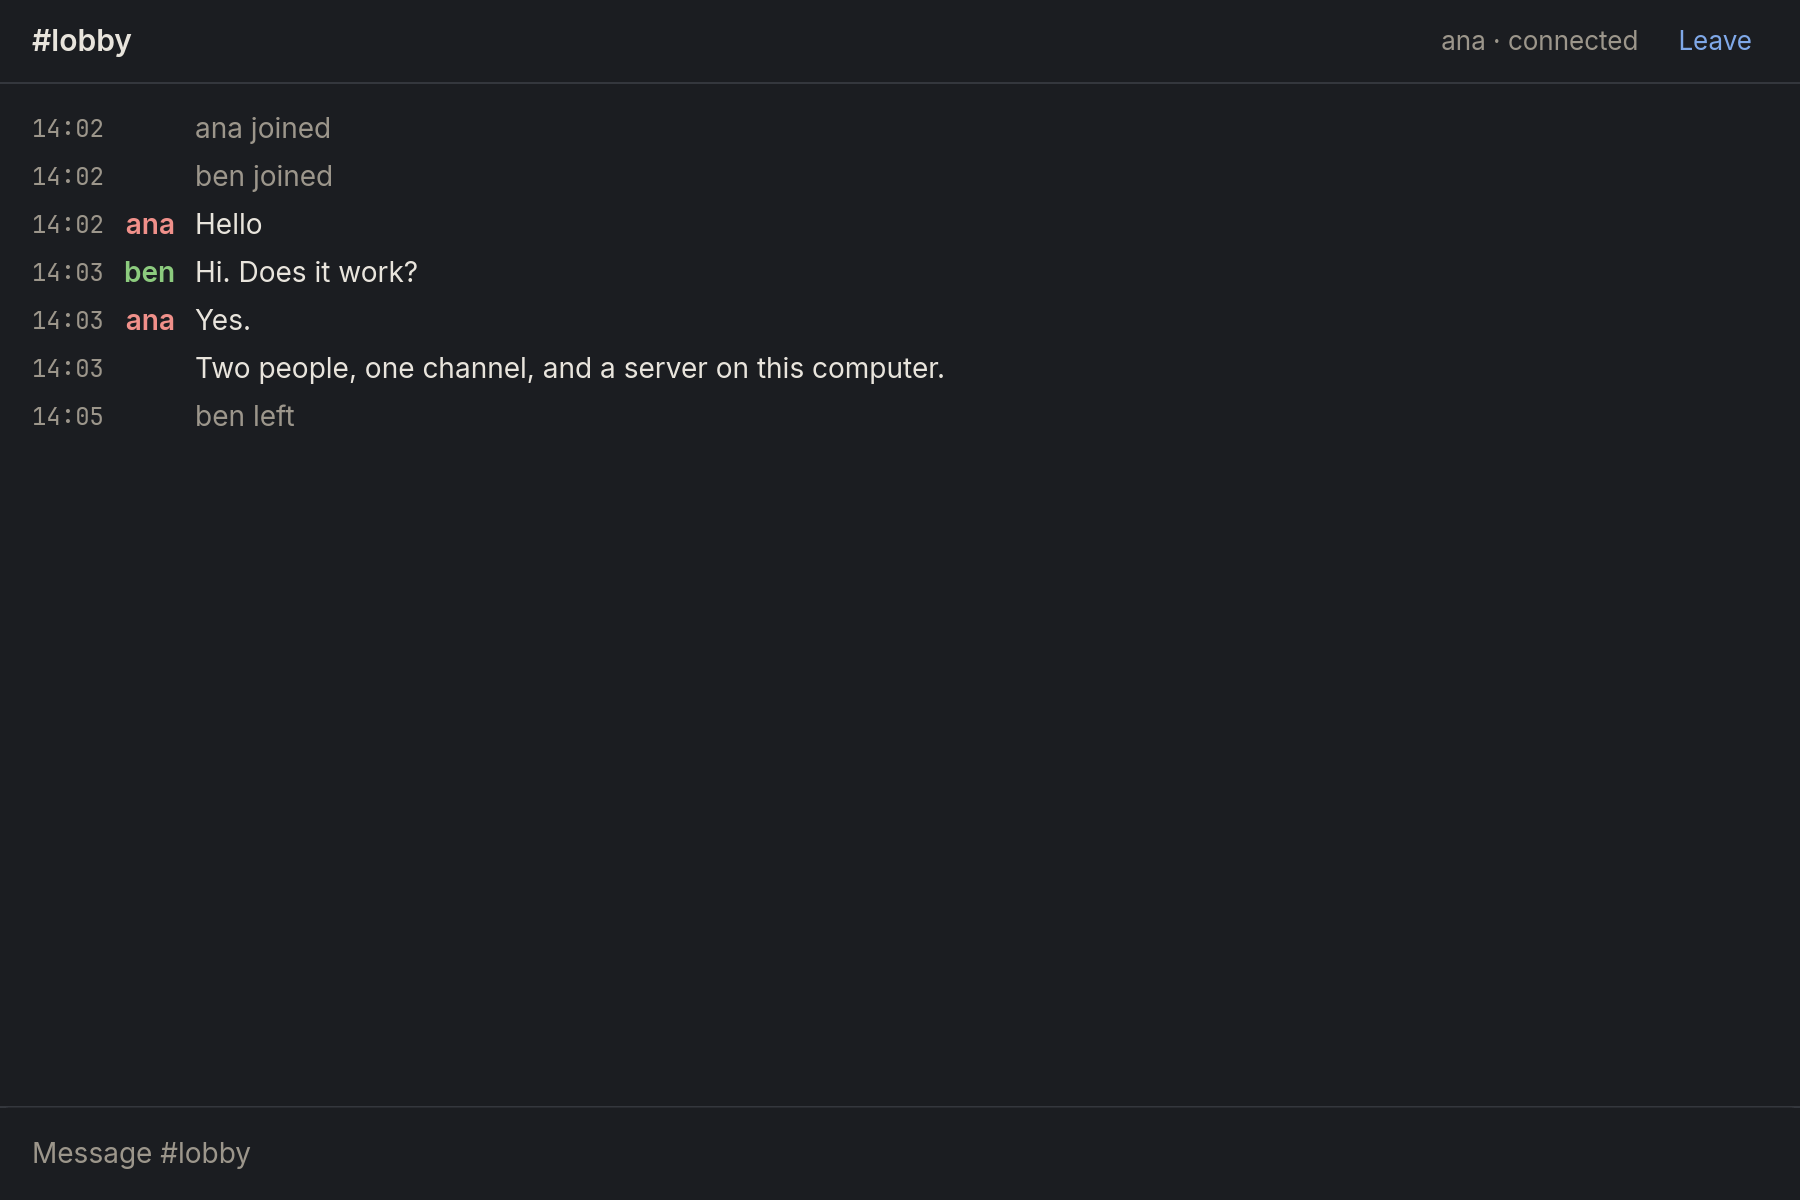
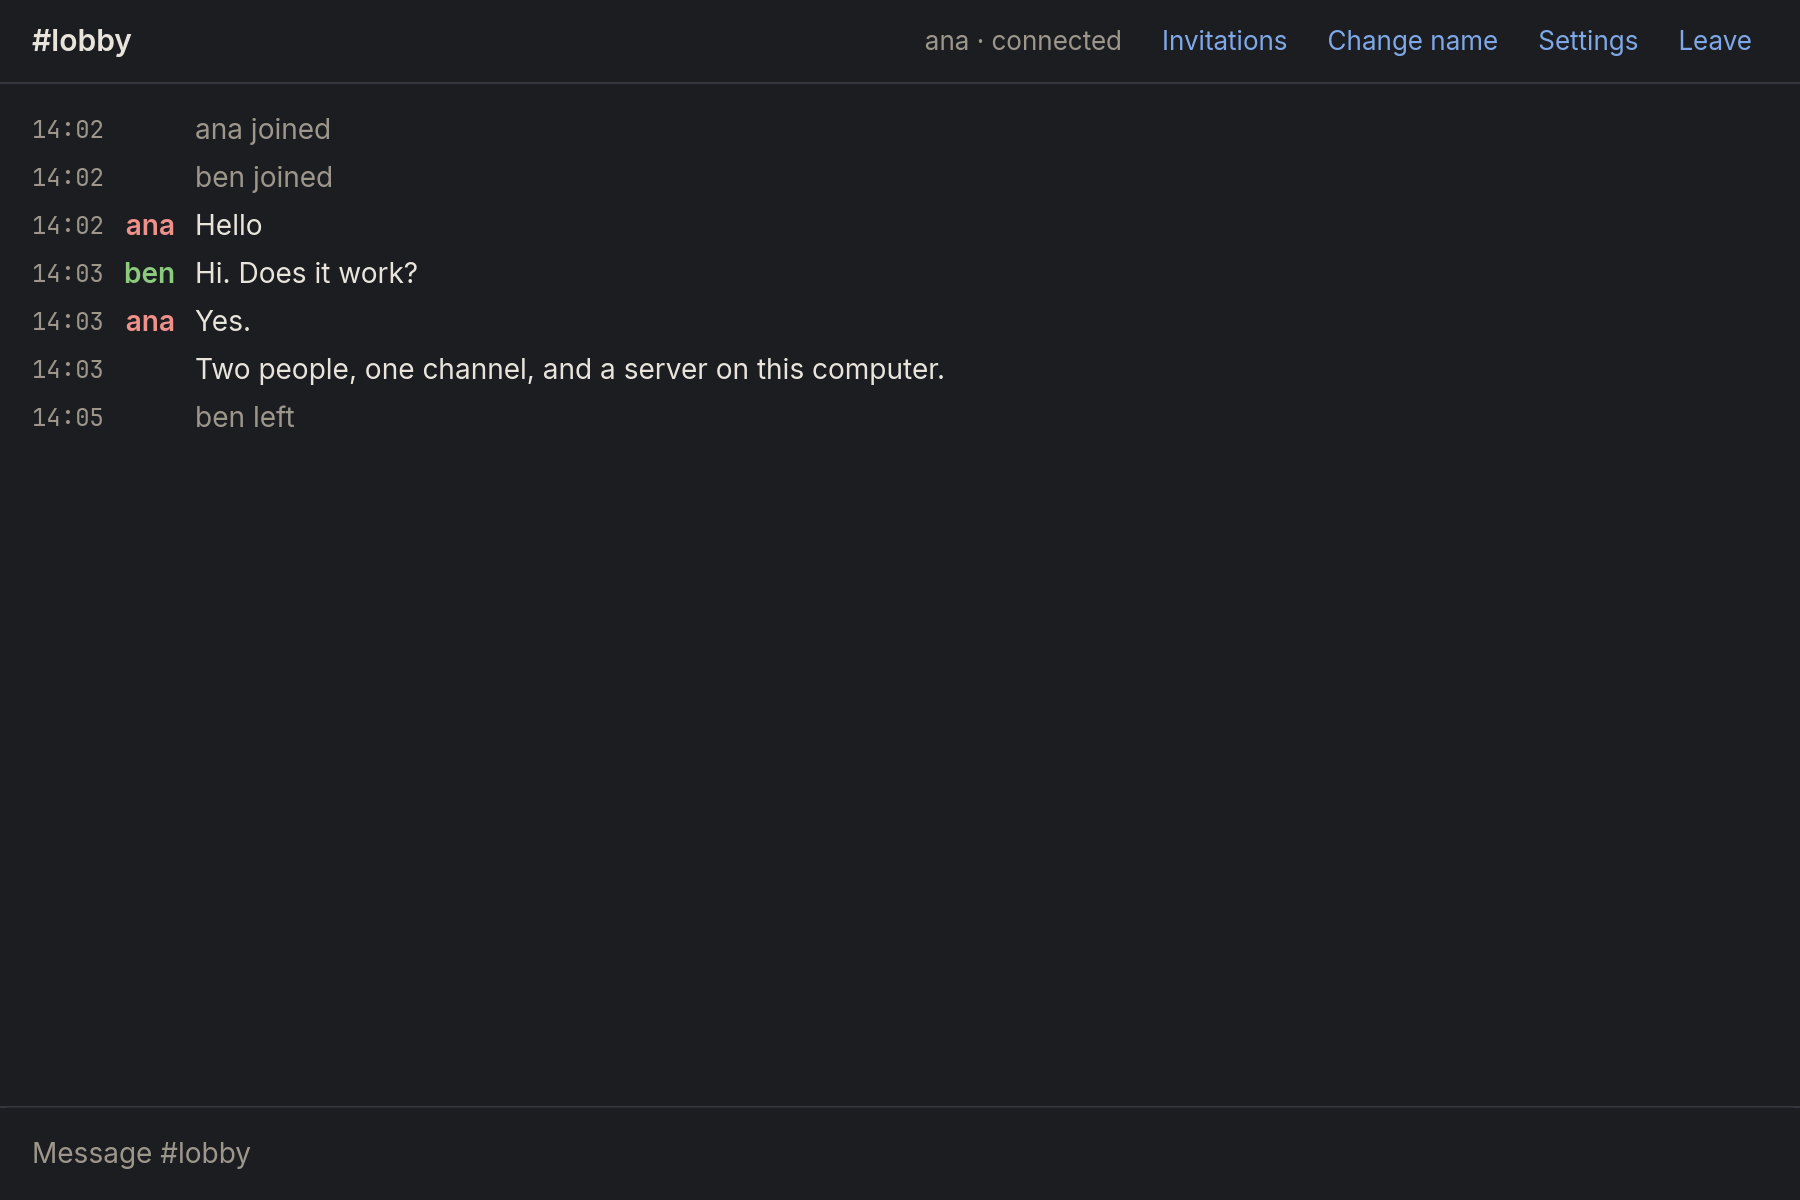
Record the performance of version 0.2 and update the documents

diff --git a/site/es/index.html b/site/es/index.html
@@ -163,6 +163,10 @@
 <p>Qué partes del código tienen una prueba formal.</p>
 </li>
 <li>
+<h3><a href="{{root}}performance.html" hreflang="en">Rendimiento</a></h3>
+<p>Los presupuestos de rendimiento y los valores medidos.</p>
+</li>
+<li>
 <h3><a href="{{root}}changelog.html" hreflang="en">Registro de cambios</a></h3>
 <p>Los cambios de cada versión.</p>
 </li>

diff --git a/site/document.html b/site/document.html
@@ -22,6 +22,7 @@
 <li><a href="{{root}}architecture.html">Architecture</a></li>
 <li><a href="{{root}}threat-model.html">Threat model</a></li>
 <li><a href="{{root}}verification.html">Verification</a></li>
+<li><a href="{{root}}performance.html">Performance</a></li>
 <li><a href="{{root}}changelog.html">Changelog</a></li>
 </ul>
 </nav>

diff --git a/site/index.html b/site/index.html
@@ -162,6 +162,10 @@
 <p>Which parts of the code have a formal proof.</p>
 </li>
 <li>
+<h3><a href="{{root}}performance.html">Performance</a></h3>
+<p>The performance budgets and the measured values.</p>
+</li>
+<li>
 <h3><a href="{{root}}changelog.html">Changelog</a></h3>
 <p>The changes in each version.</p>
 </li>

diff --git a/tools/site/src/site.rs b/tools/site/src/site.rs
@@ -12,13 +12,14 @@ const TEMPLATE: &str = "document.html";
 const MARK: &str = "mark.svg";
 const DECISIONS: &str = "docs/decisions";
 const GUIDE: &str = "README.md";
-const DOCUMENTS: [(&str, &str); 7] = [
+const DOCUMENTS: [(&str, &str); 8] = [
     ("docs/philosophy.md", "philosophy.html"),
     ("docs/decisions/README.md", "decisions/index.html"),
     ("docs/protocol/README.md", "protocol/index.html"),
     ("docs/architecture.md", "architecture.html"),
     ("docs/threat-model.md", "threat-model.html"),
     ("docs/verification.md", "verification.html"),
+    ("docs/performance.md", "performance.html"),
     ("CHANGELOG.md", "changelog.html"),
 ];
 const COPIES: [(&str, &str, &str); 2] = [
@@ -320,6 +321,7 @@ mod tests {
         root.put("docs/architecture.md", "# Architecture\n");
         root.put("docs/threat-model.md", "# Threat model\n");
         root.put("docs/verification.md", "# Verification\n");
+        root.put("docs/performance.md", "# Performance\n");
         root.put("CHANGELOG.md", "# Changelog\n\nRecord D-001.\n");
         root
     }
@@ -382,6 +384,7 @@ mod tests {
             "architecture.html",
             "threat-model.html",
             "verification.html",
+            "performance.html",
             "changelog.html",
         ] {
             assert!(out.get(page).starts_with("<title>"), "{page}");

diff --git a/tools/site/tests/repository.rs b/tools/site/tests/repository.rs
@@ -142,6 +142,7 @@ fn makes_each_page_and_each_file_of_the_website() {
         "architecture.html".to_owned(),
         "threat-model.html".to_owned(),
         "verification.html".to_owned(),
+        "performance.html".to_owned(),
         "changelog.html".to_owned(),
         "protocol/index.html".to_owned(),
         "decisions/index.html".to_owned(),

diff --git a/README.md b/README.md
@@ -6,24 +6,24 @@ Post is between IRC and Telegram. It keeps the simplicity of IRC, and it adds th
 
 The website of the project is [collide2954.github.io/post](https://collide2954.github.io/post/).
 
-![The chat screen of Post 0.1 in light mode](docs/images/chat-light.png)
+![The chat screen of Post 0.2 in light mode](docs/images/chat-light.png)
 
 ## State of the project
 
 Post is at the start of its development. Do not use it for real conversations.
 
-Version 0.1 is the first slice. It shows that all the layers work together:
+Version 0.2 adds identity and the connection across a network:
 
-- Two or more people exchange text in one channel, `#lobby`.
-- The server and the applications run on one computer.
-- The application has English and Latin American Spanish text.
-- The application has light mode and dark mode.
+- Each user has an account on each server. The account is a key, and it has no password. The application calculates the key from a secret seed in a profile.
+- A person joins a server with an invite link. The first person uses the owner link and becomes the server owner.
+- A connection across a network uses TLS 1.3. A server can make its own certificate.
+- A user can change the handle.
+- The application has profiles, a Settings page, a text size from 80% to 200%, and a protocol console for developers.
+- The application has English and Latin American Spanish text, light mode, and dark mode.
 
-Version 0.1 has no accounts, no encryption, and no stored history. The connection does not go across a network. The [roadmap](docs/decisions/engineering.md) gives the sequence of the next versions (record D-100).
+Version 0.2 has one channel, `#lobby`, and no stored history. The server can read each message. The [roadmap](docs/decisions/engineering.md) gives the sequence of the next versions (record D-100).
 
-The main branch contains the work on version 0.2. The application now signs in with an account, and a connection across a network uses TLS 1.3.
-
-## Try the main branch
+## Try version 0.2
 
 You must have [rustup](https://rustup.rs). It installs the Rust release that the file `rust-toolchain.toml` gives.
 
@@ -50,6 +50,42 @@ The application keeps a secret seed in a file in your user directory. Only your 
 
 The server listens on port 7678. To use a different port, give the number: `cargo run --bin post-server -- --port 9000`. The server keeps its data in the directory `post-server-data`.
 
+### A second user on the same computer
+
+One profile has one account on a server. Thus a second user needs a second profile.
+
+1. In the chat, select **Invitations**, then **New invite link**, then **Copy**.
+2. Select **Back**, then **Leave**, then **Profiles**. Make a profile with the name `second`.
+3. Select **Back**, and open your server again.
+4. In a third terminal, start a second window with the new profile:
+
+   ```
+   cargo run --bin post -- --profile second
+   ```
+
+5. Paste the invite link into the first field. Type a name, and select **Connect**.
+
+### A server for other computers
+
+Make a file with the name `post-server.toml` in the directory where you start the server:
+
+```toml
+# The address that the users type. An address without a port uses port 443.
+address = "chat.example.org"
+
+[tls]
+# "own": the server makes its own certificate.
+# "files": the server uses the two files below.
+# "proxy": a reverse proxy does the TLS work.
+mode = "own"
+# certificate = "certificate.pem"
+# key = "certificate-key.pem"
+```
+
+With the mode `own`, the server prints the fingerprint of its certificate. Give the fingerprint to your users. The application shows the fingerprint at the first connection, and the user compares the two (record D-073).
+
+The command `post-server owner-link` makes a new owner link. Stop the server before you use this command.
+
 ## Documents
 
 | Document | Content |
@@ -60,6 +96,7 @@ The server listens on port 7678. To use a different port, give the number: `carg
 | [Architecture](docs/architecture.md) | The parts of the code |
 | [Threat model](docs/threat-model.md) | What Post protects, and what it does not protect |
 | [Verification](docs/verification.md) | Which parts of the code have a formal proof, and which parts have none |
+| [Performance](docs/performance.md) | The performance budgets and the measured values |
 | [Changelog](CHANGELOG.md) | The changes in each version |
 
 ## Repository layout
@@ -67,6 +104,8 @@ The server listens on port 7678. To use a different port, give the number: `carg
 | Directory | Content |
 |---|---|
 | `crates/post-proto` | Message types, codec, and protocol rules |
+| `crates/post-crypto` | Keys and proofs of accounts and servers |
+| `crates/post-rules` | The proved rules of the server for accounts, handles, and invitations |
 | `crates/post-server` | The server program, `post-server` |
 | `crates/post-client` | The client logic without an interface |
 | `crates/post-app` | The application, `post` |

diff --git a/docs/performance.md b/docs/performance.md
@@ -1,0 +1,73 @@
+# Performance
+
+This document gives the performance budgets of Post and the values that the project measured. Decision record D-170 gives the budgets. The project measures before each minor version.
+
+## The reference computer
+
+The reference computer is a laptop with these parts:
+
+- An Intel Core i5-8365U processor with 4 cores and 8 threads.
+- 24 GB of memory.
+- Built-in Intel UHD Graphics 620.
+- Windows 11.
+
+Other programs were in operation on the computer during the measurements. They used 2% to 11% of the processor.
+
+## Values for version 0.2
+
+The project measured release builds on 2026-11-22.
+
+| Subject | Budget | Measured value | Result |
+|---|---|---|---|
+| Start of the application | The window shows in 300 ms or less after a warm start. | 61 ms | The budget is met. |
+| Memory of the application | The application uses 150 MB or less when idle. | 119 MB | The budget is met. |
+| Processor time of the application | The application uses 1% of one processor core or less when idle. | 0.57% | The budget is met. |
+| Timeline | A frame takes 16 ms or less with 100,000 messages. | No value | This budget starts in version 0.4. |
+| Message delivery | The server sends a message to 1,000 members of a channel in 50 ms or less. | 47 ms to 57 ms | The value is at the limit of the budget. Read the section below. |
+| Server memory | 10,000 idle connections use 1 GB or less. | 107 MB | The budget is met. |
+
+## The application
+
+The script `tools/measure-app.ps1` does the measurement on Windows. It uses a temporary directory for the data, thus it does not change your profiles.
+
+- **Start.** The script starts the application 6 times. For each start, it measures the time until the window exists. The first start is not a warm start. The 5 warm starts took 41 ms to 94 ms, and the median was 61 ms.
+- **Memory.** The script reads the memory of the application after 8 seconds without input. It uses the Windows value `WorkingSet64`.
+- **Processor time.** The window is in front, and the text cursor of the first field is on. The script measures the processor time of 30 seconds without input. It does this 3 times. The values were 0.57%, 1.35%, and 0.47% of one core. The median was 0.57%.
+
+Version 0.1.0 gives the same values for the memory and for the processor time.
+
+A program that the computer starts for the first time after a build can use 2% to 4% of one core for some starts. The value then decreases. Measure only after some starts.
+
+## Message delivery
+
+The test starts the server program and makes 1,000 accounts on the reference computer. Each account has one connection. One member sends a message 30 times. For each message, the test measures the time until all 1,000 connections have the message.
+
+- The first messages after a pause took 23 ms to 29 ms. The processor operates at its burst speed for a short time.
+- Later messages took more time. The median of the 30 messages was 47 ms, 53 ms, and 57 ms in three runs. The processor then operates at its continuous power limit.
+
+The 1,000 test clients use the same processor as the server. For each message, the server program used 21 ms of processor time in its own code and 92 ms in the operating system. The time in the operating system is the network work for connections on the same computer. The work of the receiver is a part of this time.
+
+Thus the test does not show the time of a server with members on other computers. That time is smaller.
+
+**Open point.** Measure the delivery with the clients on a second computer, and measure it on Linux. Decrease the work for each connection before channels with many members come.
+
+## Server memory
+
+The test starts the server program and opens 10,000 WebSocket connections. The connections do not sign in. A connection that signs in also holds its handle and its role.
+
+- The server used 7 MB without connections.
+- The server used 107 MB with 10,000 idle connections. That is 10 kB for each connection.
+
+Before this measurement, each connection used 137 kB, and 10,000 connections used 1,375 MB. The cause was the read buffer of the WebSocket library. The server now gives each connection a read buffer of 4,096 bytes (D-174).
+
+## How to measure the server
+
+```
+cargo test --release -p post-server --test budgets -- --ignored --nocapture --test-threads 1
+```
+
+The command prints the values. The test for the memory stops with an error if the server uses more than the budget. The test for the delivery prints if the budget is met. It stops with an error only if the median is more than 150 ms.
+
+After one run, wait some minutes before the next run. The operating system keeps the 11,000 network ports of a run for a short time.
+
+The nightly checks run this command on the computers of GitHub. Those computers are not the reference computer, and their speed changes (D-105). Thus only the measurement on the reference computer shows if a budget is met.

diff --git a/docs/threat-model.md b/docs/threat-model.md
@@ -1,6 +1,6 @@
 # Threat model
 
-This document tells what Post protects, against whom, and what Post does not protect. It describes version 0.2, and the project wrote it before the work on that version (decision record D-075). A version that changes a security function also changes this document.
+This document tells what Post protects, against whom, and what Post does not protect. It describes version 0.2. The project wrote it before the work on that version (decision record D-075), and examined it again when the version was complete. A version that changes a security function also changes this document.
 
 No independent audit of Post exists. The project wrote this document itself.
 
@@ -111,7 +111,7 @@ No recovery phrase exists before version 0.11 (D-064). A user who loses the prof
 
 ### An attacker who wants to stop the service
 
-The server limits the length of a line and the number of lines that wait for a slow connection. It closes a connection that does not read. Rate limits and bans come in version 0.9 (D-134, D-140). Post gives no full protection against an attacker who can send much traffic.
+The server limits the length of a line and the number of lines that wait for a slow connection. It closes a connection that does not read. In version 0.2, the server does not limit the number of connections, and a connection has no time limit for the sign-in. Rate limits and bans come in version 0.9 (D-134, D-140). Post gives no full protection against an attacker who can send much traffic.
 
 ## What Post does not protect
 

diff --git a/SECURITY.md b/SECURITY.md
@@ -2,7 +2,7 @@
 
 ## State of Post
 
-Post is at the start of its development. Version 0.1 has no accounts and no encryption, and it connects only to a server on the same computer. Do not use it for real conversations.
+Post is at the start of its development. Version 0.2 has accounts and TLS, but the server can read each message, and the server has no rate limits. Do not use it for real conversations.
 
 No independent audit of Post exists. The [threat model](docs/threat-model.md) tells what Post protects and what it does not protect.
 
